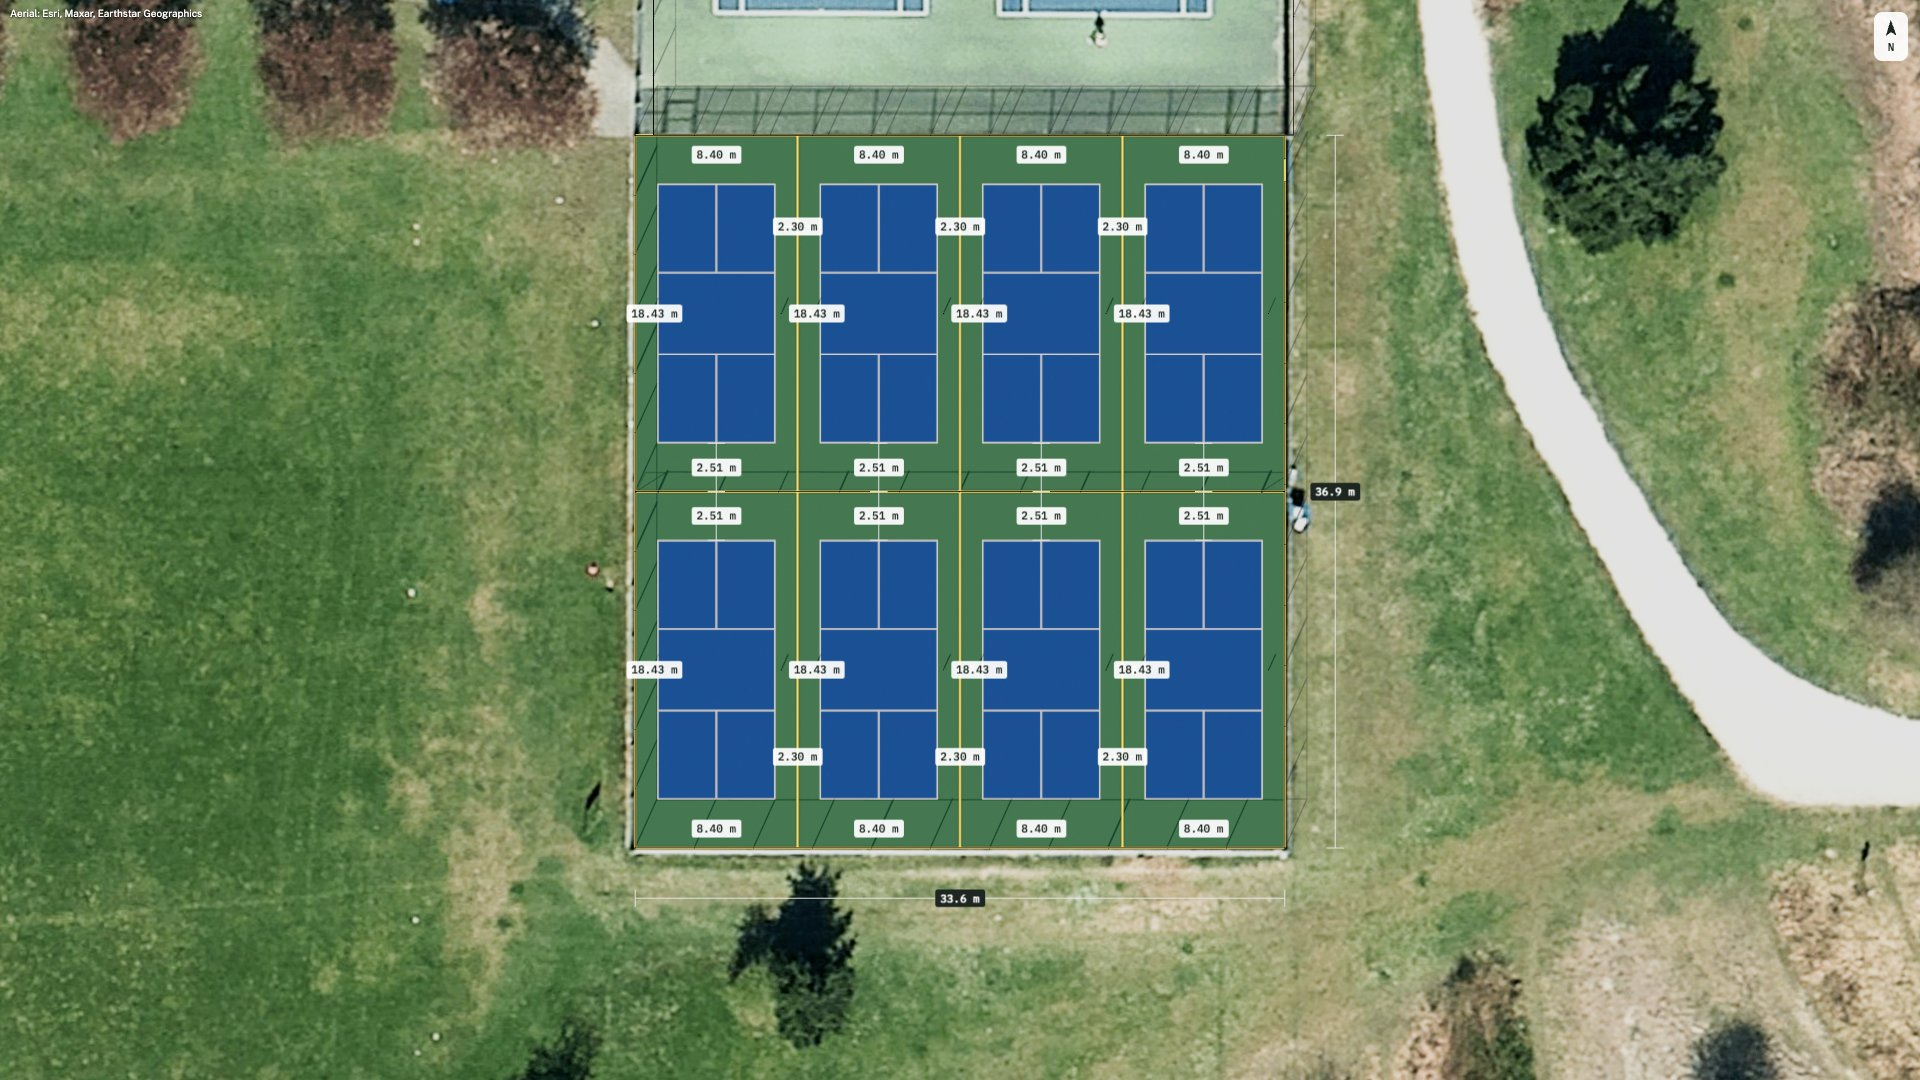
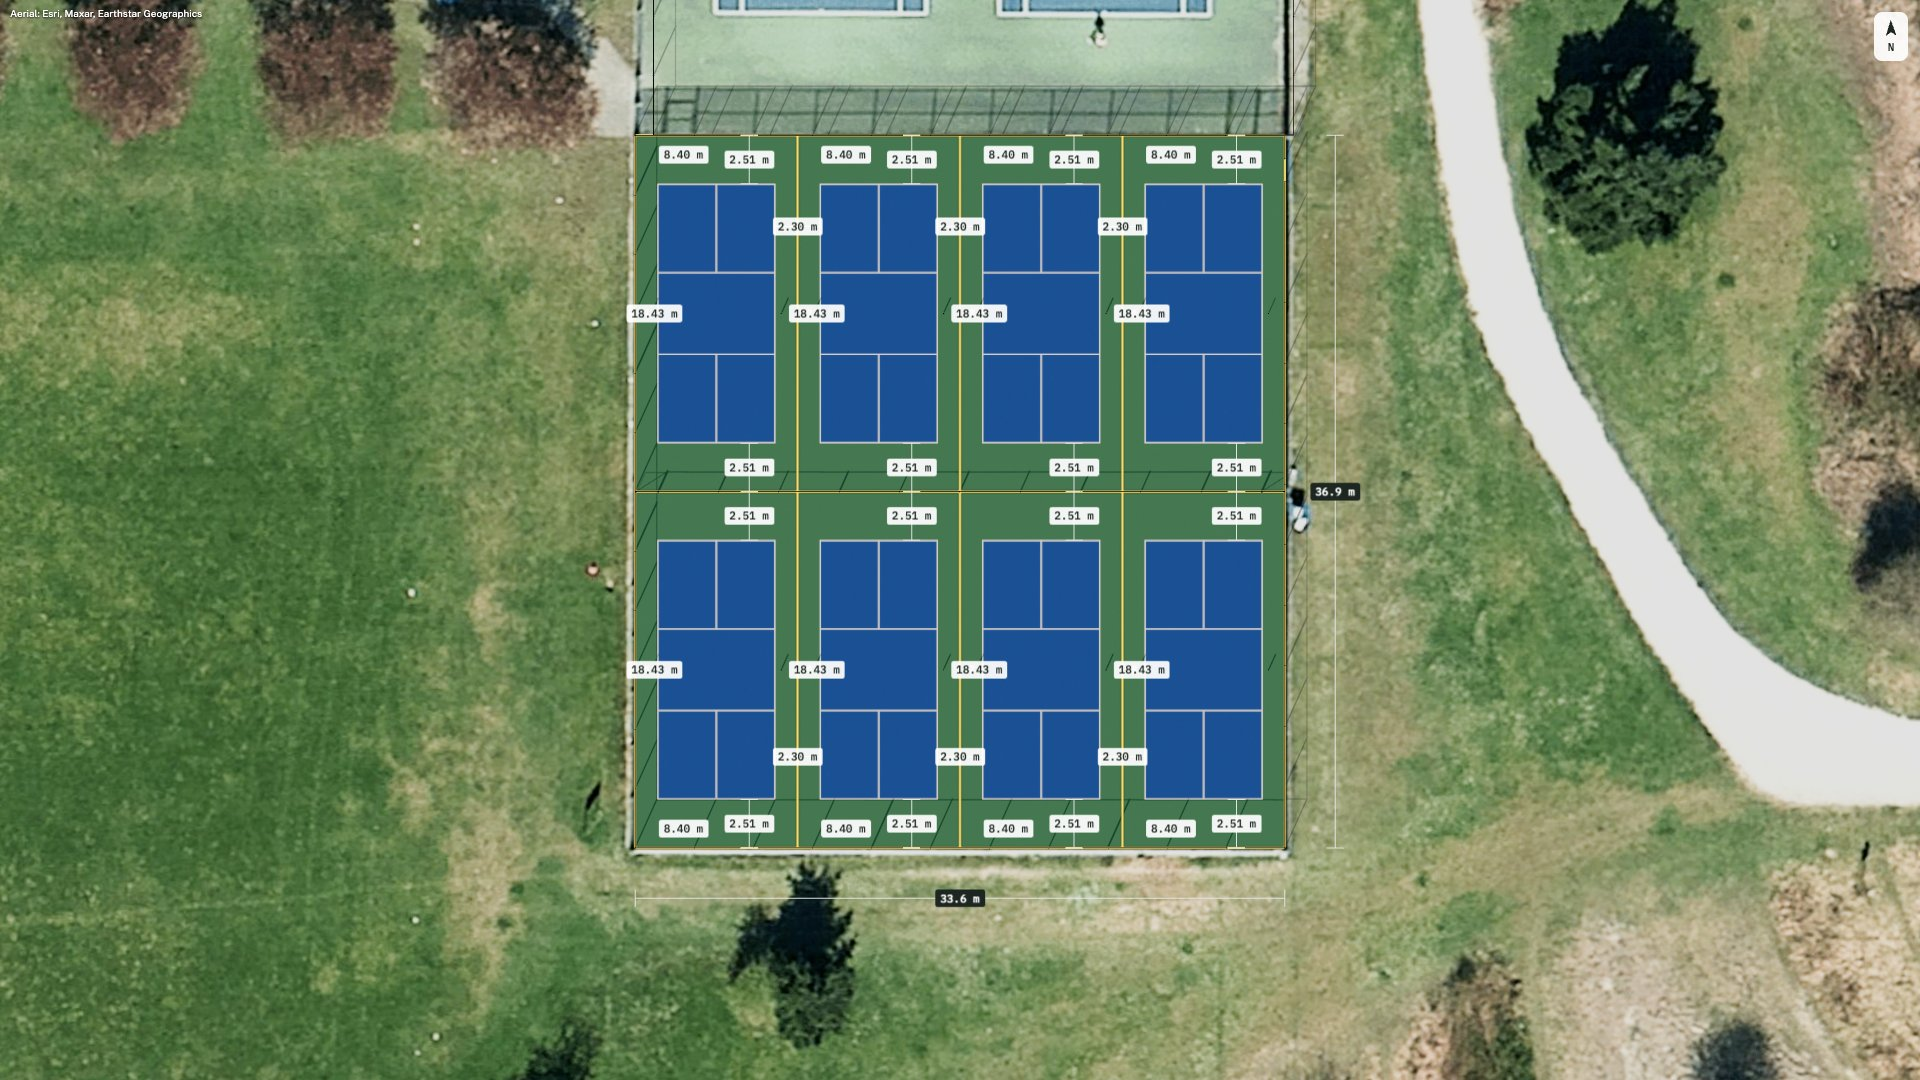
3d: 8.2 ft from the outer baselines back to the north and south fences too; the rear spacing labels line up in each column beside the chunk width
Claude-Session: https://claude.ai/code/session_01XZrTSL3wJyeVVwxpMARMFP

diff --git a/public/3d/index.html b/public/3d/index.html
@@ -501,7 +501,7 @@ for (let c = 0; c < COLS; c++) xs.push(courts[c].x - CW / 2, courts[c].x + CW / 
 for (let r = 0; r < ROWS; r++) zs.push(courts[r * COLS].z - CL / 2, courts[r * COLS].z + CL / 2);
 xs.push(PAD_W / 2); zs.push(PAD_L / 2);
 // each chunk: its width near the outer fence, its length just inside its west edge
-const chunkW = courts.map((c) => label('', new THREE.Vector3(c.x, TOP, c.z > 0 ? PAD_L / 2 - 1 : -PAD_L / 2 + 1), { court: true }));
+const chunkW = courts.map((c) => label('', new THREE.Vector3(c.x - 1.7, TOP, c.z > 0 ? PAD_L / 2 - 1 : -PAD_L / 2 + 1), { court: true }));
 const chunkL = courts.map((c) => label('', new THREE.Vector3(c.x - BAY_W / 2 + 1, TOP, c.z), { court: true }));
 // the spacing between neighbouring courts: sideline to sideline across each row (toward the outer fence, clear of the
 // chunk labels), and from each row's baseline back to the middle fence (down each column)
@@ -509,7 +509,12 @@ for (let r = 0; r < ROWS; r++) for (let c = 0; c < COLS - 1; c++) {
   const a = courts[r * COLS + c], b = courts[r * COLS + c + 1];
   chain('x', [a.x + CW / 2, b.x - CW / 2], a.z + Math.sign(a.z) * 4.5, { court: true, prio: 0 });
 }
-for (let c = 0; c < COLS; c++) chain('z', [courts[c].z + CL / 2, 0, courts[COLS + c].z - CL / 2], courts[c].x, { court: true, prio: 0 });
+for (let c = 0; c < COLS; c++) chain('z', [courts[c].z + CL / 2, 0, courts[COLS + c].z - CL / 2], courts[c].x + 1.7, { court: true, prio: 0 });
+// and from the outer baselines back to the north and south fences, beside each chunk's width label
+for (let c = 0; c < COLS; c++) {
+  chain('z', [-PAD_L / 2, courts[c].z - CL / 2], courts[c].x + 1.7, { court: true, prio: 0 });
+  chain('z', [courts[COLS + c].z + CL / 2, PAD_L / 2], courts[c].x + 1.7, { court: true, prio: 0 });
+}
 // the whole place
 chain('x', [-PAD_W / 2, PAD_W / 2], PAD_L / 2 + 2.6, { cls: 'total' });
 chain('z', [-PAD_L / 2, PAD_L / 2], PAD_W / 2 + 2.6, { cls: 'total' });
